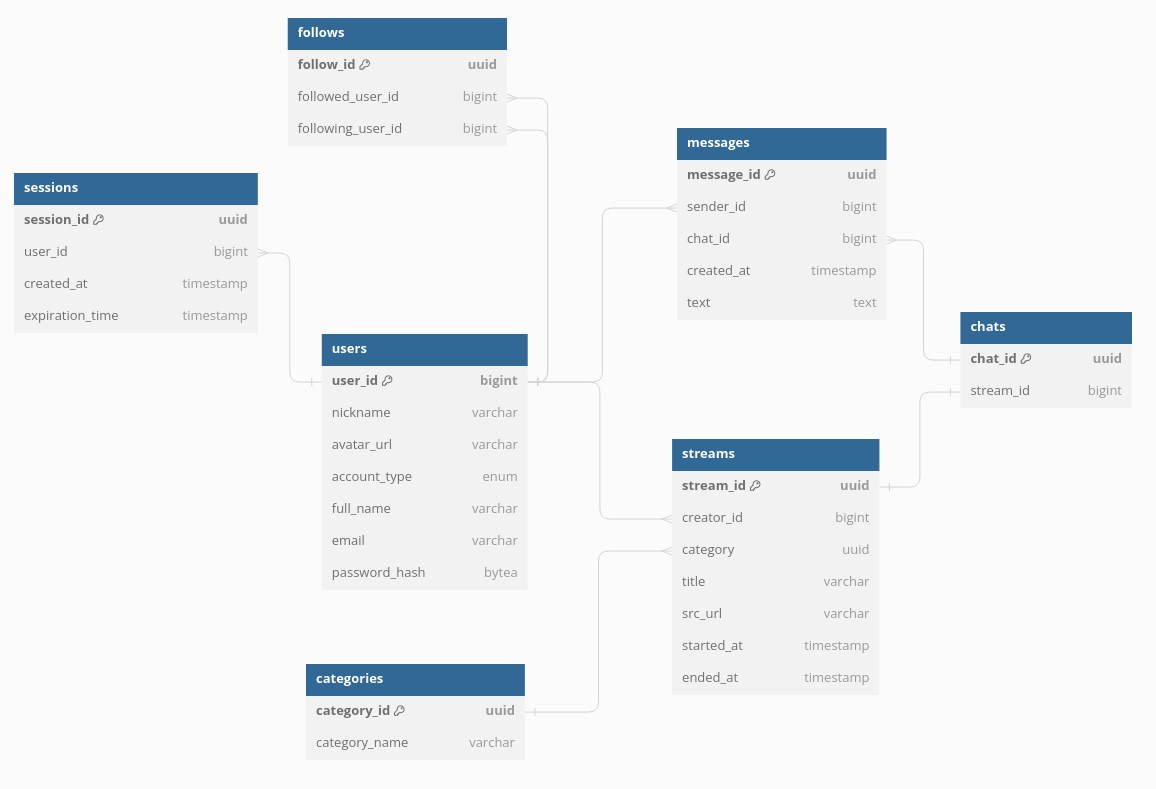
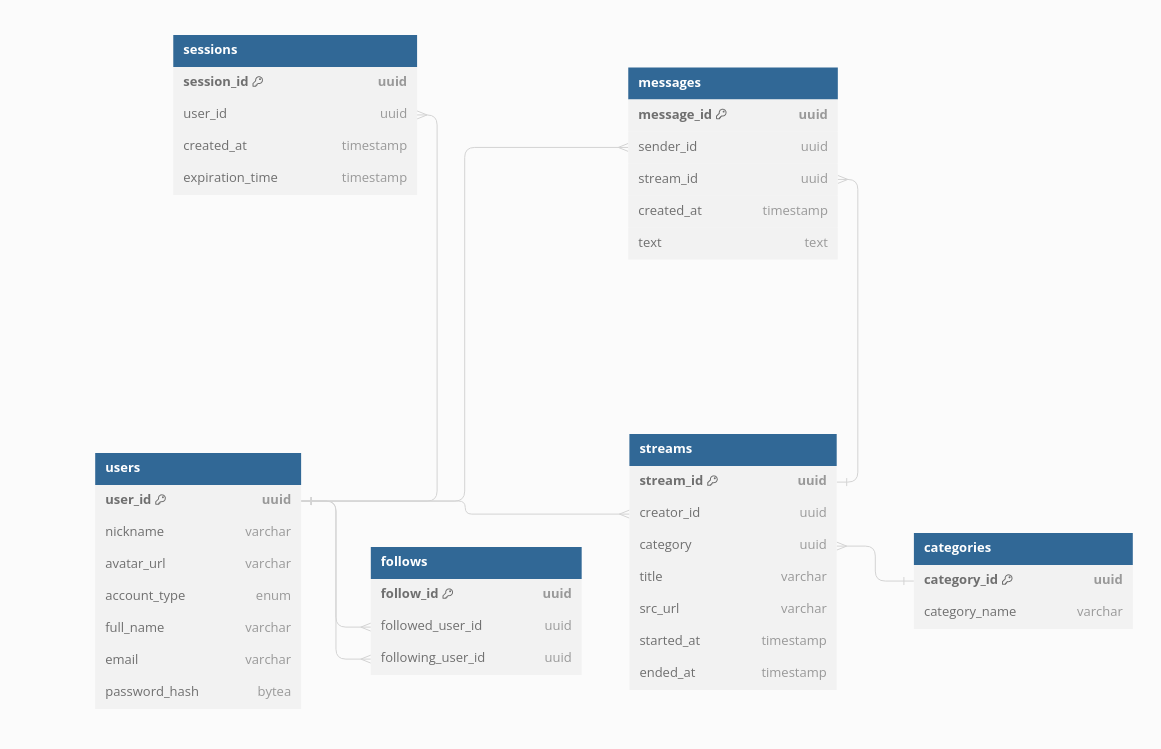
update project schema

diff --git a/README.md b/README.md
@@ -21,12 +21,13 @@
     - [3.1 Физическое расположение датацентров](#31-физическое-расположение-датацентров)
       - [Схема примерного расположения ДЦ](#схема-примерного-расположения-дц)
       - [Покрытие регионов](#покрытие-регионов)
-      - [Максимальные задержки](#максимальные-задержки)
-    - [3.2 Нагрузка на датацентры](#32-нагрузка-на-датацентры)
-    - [3.3 Разбивка](#33-разбивка)
+      - [Максимальные задержки и распределение RPS](#максимальные-задержки-и-распределение-rps)
+    - [3.3 Разбивка по типам серверов](#33-разбивка-по-типам-серверов)
   - [4. Локальная балансировка нагрузки](#4-локальная-балансировка-нагрузки)
+    - [Отакзоустойчивость](#отакзоустойчивость)
   - [5. Логическая схема БД](#5-логическая-схема-бд)
   - [6. Физическая схема БД](#6-физическая-схема-бд)
+    - [Индексы](#индексы)
   - [7. Технологии](#7-технологии)
   - [Источники](#источники)
   <!--toc:end-->
@@ -89,11 +90,11 @@
 
 На основе наблюдения за [количеством сообщений в секунду][5], можно сказать, что среднее количество примерно 600 сообщений. Тогда в день — $600 \times 60 \times 60 \times 24 \approx 52$ млн сообщений в день.
 
-|                          | частота, млн/день | частота, на одного человека |
-| :----------------------: | :---------------: | :-------------------------: |
-|    Начало трансляции     |        1.1        |              -              |
-| Отправка сообщения в чат |        52         |              -              |
-|   Открытие трянсляции    |        2.3        |              3              |
+|                          | частота, млн/день |
+| :----------------------: | :---------------: |
+|    Начало трансляции     |        1.1        |
+| Отправка сообщения в чат |        52         |
+|   Открытие трянсляции    |        2.3        |
 
 ### 2.2 Технические метрики
 
@@ -209,12 +210,12 @@ $$
 
 **Cводная таблица сетевой нагрузки:**
 
-|       Тип запроса        | Средняя нагрузка | Пиковая нагрузка |  Дневная нагрузка  |
-| :----------------------: | :--------------: | :--------------: | :----------------: |
-|   Просмотр трансляции    |   10 Тбит/сек    |   17 ТБит/сек    | 105965 ТБайт/сутки |
-|       Чтение чата        |   0.05 Гбит/с    |    0.1 Гбит/с    |  312 ГБайт/сутки   |
-|  Проведение трансляции   |    399 Гбит/с    |    557 Гбит/с    | 4 250 ТБайт/сутки  |
-| Отправка сообщений в чат |   0.002 Гбит/с   |  0.0034 Гбит/с   |  312 ГБайт/сутки   |
+|       Тип запроса        |       Средняя нагрузка        |        Пиковая нагрузка        |  Дневная нагрузка  |
+| :----------------------: | :---------------------------: | :----------------------------: | :----------------: |
+|   Просмотр трансляции    | 10 Тбит/сек(2.4 млн зрителей) |  17 ТБит/сек (4 млн зрителей)  | 105965 ТБайт/сутки |
+|       Чтение чата        |          0.05 Гбит/с          |           0.1 Гбит/с           |  312 ГБайт/сутки   |
+|  Проведение трансляции   | 399 Гбит/с(93000 трансляций)  | 557 Гбит/с (130000 трансляций) | 4 250 ТБайт/сутки  |
+| Отправка сообщений в чат |         0.002 Гбит/с          |         0.0034 Гбит/с          |  312 ГБайт/сутки   |
 
 #### RPS в разбивке по типам запросов
 
@@ -236,14 +237,17 @@ $$
 \frac{0.3 \times 31 \times 10^{6} \times 3}{86400} \approx 323 \ \text{RPS}
 $$
 
+Количество запросов на загрузку чанка рассчитаем как отношение исходящей нагрузки на просмотр трансляций к размер чанка длиной 2 секунды.
+
 Возьмем за пиковый RPS средний \* 1.7 (отношения пика зрителей к среднему количеству)
 
-| Тип запроса         | Средний RPS | Пиковый RPS |
-| :------------------ | :---------- | :---------- |
-| Открытие трансляции | 1023        | 1740        |
-| Отправка сообщения  | 600         | 1020        |
-| Поиск               | 323         | 550         |
-| Cтарт трансляции    | 15          | 26          |
+| Тип запроса                      | Средний RPS  | Пиковый RPS  |
+| :------------------------------- | :----------- | :----------- |
+| Открытие трансляции              | 1023         | 1740         |
+| Загрузка чанка трансляции(2 сек) | $1.1 * 10^6$ | $1.8 * 10^6$ |
+| Отправка сообщения               | 600          | 1020         |
+| Поиск                            | 323          | 550          |
+| Cтарт трансляции                 | 15           | 26           |
 
 ## 3. Глобальная балансировка нагрузки
 
@@ -292,7 +296,7 @@ $$
 
 ![покрытие](./assets/Coverage.png)
 
-#### Максимальные задержки
+#### Максимальные задержки и распределение RPS
 
 Составлено на основе https://wondernetwork.com/pings
 
@@ -308,75 +312,157 @@ $$
 |       Азия(Япония, Южная Корея)       |            20             |
 |               Австралия               |            45             |
 
-### 3.2 Нагрузка на датацентры
+| Расположение  | Входящаяя нагрузка, RPS | Исходящая нагрузка, RPS |
+| ------------- | ----------------------- | ----------------------- |
+| Нью-Йорк      | 110                     | 130367                  |
+| Сан-Франциско | 71                      | 85220                   |
+| Сиэтл         | 47                      | 56160                   |
+| Даллас        | 128                     | 152120                  |
+| Торонто       | 36                      | 42222                   |
+| Лондон        | 49                      | 57516                   |
+| Франкфурт     | 107                     | 125596                  |
+| Цюрих         | 86                      | 100946                  |
+| Париж         | 41                      | 48125                   |
+| Стокгольм     | 48                      | 56342                   |
+| Мадрид        | 48                      | 56342                   |
+| Токио         | 15                      | 17616                   |
+| Сеул          | 43                      | 28736                   |
+| Сан-Паулу     | 66                      | 72667                   |
+| Буэнос-Айрос  | 38                      | 42939                   |
+| Сидней        | 16                      | 17616                   |
 
-### 3.3 Разбивка
+### 3.3 Разбивка по типам серверов
 
-Т.к исходящаяя нагрзука в 25 раз больше входящей, необходимо определить в каких ДЦ будут расположены сервера, принимающие входяший видеопоток, и в каких ДЦ будут находиться сервера, раздающие видеопоток конечным зрителям.
+Т.к исходящаяя нагрзука в 25 раз больше входящей, необходимо определить какие из ДЦ будут Origin, а какие PoP.
+
+- Функция Origin - обработка видеопотока от PoP и конечных пользователей.
+- Функция PoP - прием видеопотока от пользователей и перенаправление его в Origin.
 
 ![Разбивка по типам ДЦ](assets/dc_type_distribution.png)
 
 ## 4. Локальная балансировка нагрузки
 
+Для балансировки нагрузки внутри ДЦ будем использовать L7 балансировщик, например Envoy.
+Запросы на ведение трансляции будут распределяться с помощью consistant hash от id трансляции, так можно добиться того, чтобы все чанки уходили на один сервер.
+При смене источника трансляции(например с компьютера на телефон) id трансляции останется тем же, и видеопоток будет приходить на тот же сервер.
+Остальные запросы будут балансироваться с помощью алгоритма Weighted Round Robin.
+
+### Отакзоустойчивость
+
+Для оркестрации будет использоваться Kubernetes, за отказоустойчиваость отвечает service mesh.
+Service mesh фиксирует все аспекты взаимодействия между сервисами в качестве показателей производительности.
+Если в каком-то сервисе происходит сбой, service mesh собирает данные о том, сколько времени прошло до успешной повторной попытки.
+По мере накопления данных о времени сбоя можно подготовить правила для определения оптимального времени ожидания перед повторным запуском сервиса.
+В качестве service mesh будем использовать Istio.
+
 ## 5. Логическая схема БД
 
 ![Логическая схема](./assets/db_scheme.png)
 
-- **Users**
+**Users**
 
-  - Размер: $140 \times 10^6 \times (8 + 64 + 128 + 256 + 256 + 64) \approx 101 \text{ГБ}$
-  - Чтение:
-  - Запись:
+    16 + 64 + 128 + 256 + 256 + 64 = 0.8 КБ
 
-- **Streams:** [по данным](https://twitchtracker.com/statistics/active-streamers) количество активных стримеров в день составляет от 1.1 млн до 1.4 млн. Размер данных будет рассчитывать за учитывая, что информация о трансляциях большинства пользователей храниться лишь неделю.
+**Streams**
 
-  - Размер: $1.4 \times 10^6 \times 7 \times (16 + 8 + 16 + 200 + 128 + 8 + 8) = 2.6 \ \text{ГБ}$
-  - Чтение:
-  - Запись: 16
+    16 + 16 + 16 + 128 + 128 + 8 + 8 = 0.31 КБ
 
-- **Sessions**
+**Sessions**
 
-  - Размер: будем считать, что сессия хранится действует месяц, тогда размер хранилища: $140 \times 10^6 \times (16 + 8 + 8) \approx 4.2 \ \text{ГБ}$
-  - Чтение: $31 \times 10^6 / 86400 \approx 360$
-  - Запись: -
+    16 + 16 + 8 + 8 = 0.05 КБ
 
-- **Messages**
+**Messages**
 
-  - Размер: Запись чата трансляции хранится так же неделю $600 \times 60 \times 60 \times 24 \times 7 \times (16 + 8 + 8 + 8 + 512) \approx 187 \ \text{ГБ}$
-  - Чтение: -
-  - Запись: 1020
+    16 + 16 + 16 + 8 + 512 = 0.55 КБ
 
-- **Follows**
-  - Размер: $140 \times 10^6 \times 15 \times (16 + 8 + 8) \approx 2 \ \text{ГБ}$
-  - Чтение: -
-  - Запись: -
+**Follows**
 
-| Название таблицы | размер данных, ГБ | нагрузка на чтение | нагрузка на запись |
-| ---------------- | ----------------- | ------------------ | ------------------ |
-| users            | 101               | -                  | -                  |
-| streams          | 2.6               | -                  | 26                 |
-| follows          | 2                 | -                  | -                  |
-| sessions         | 4.2               | 360                | -                  |
-| messages         | 187               | -                  | 1020               |
+    16 + 16 + 16 = 0.05 КБ
+
+**Categories**
+
+    16 + 256 = 0.27 КБ
+
+| Название таблицы | размер данных, ГБ | нагрузка на чтение | нагрузка на запись       |
+| ---------------- | ----------------- | ------------------ | ------------------------ |
+| users            | 101               | 358                | 14571 (дневная нагрузка) |
+| streams          | 2.6               | 4933               | 26                       |
+| follows          | 66                | 358                | 1157                     |
+| sessions         | 6.7               | 1076               | -                        |
+| messages         | 192               | -                  | 1020                     |
+
+Нагрузка на чтение сообщений незначительная, т.к сообщения пересылаются сразу всем
+активным зрителям трансляции, чат доступен только с того момента, как зритель присоединился к трансляции.
+
+Категории добавляются достаточно редко, поэтому нагрузка на запись для таблицы **categories** незначительная.
+
+Нагрузка запись в **follows** рассчитана на основе [данных о приросте подписчиков за последние 30 дней](https://twitchtracker.com/channels/followers-growth).
+
 
 ## 6. Физическая схема БД
 
+![Физическая схема](./assets/db_phys.png)
+
+### Индексы
+
+**Users**
+
+| Ключи индекса | Тип индекса | Размер, ГБ |
+| ------------- | ----------- | ---------- |
+| user_id       | BTree       | 0.3        |
+| nickname      | BTree       | 9.4        |
+
+**Follows**
+
+| Ключи индекса    | Тип индекса | Размер, ГБ |
+| ---------------- | ----------- | ---------- |
+| follow_id        | BTree       | 31         |
+| followed_user_id | Hash        | 15         |
+
+**Categories**
+
+| Ключи индекса | Тип индекса | Размер, ГБ |
+| ------------- | ----------- | ---------- |
+| category_id   | BTree       | 0.0002     |
+
+**Messages**
+
+| Ключи индекса | Тип индекса | Размер, ГБ |
+| ------------- | ----------- | ---------- |
+| message_id    | BTree       | 8          |
+| stream_id     | BTree       | 8          |
+
+**Streams**
+
+| Ключи индекса | Тип индекса | Размер, ГБ |
+| ------------- | ----------- | ---------- |
+| stream_id     | BTree       | 0.2        |
+| title         | BTree       | 1.1        |
+| category_id   | Hash        | 0.2        |
+
 ## 7. Технологии
 
-| Технология   | Применение                        | Обоснование                                                                                |
-| ------------ | --------------------------------- | ------------------------------------------------------------------------------------------ |
-| Go           | Основной язык бекенда             | Простота написания, параллелизм из коробки, удобные инструменты для отладки и тестирования |
-| Typescript   | Основной язык фронтенда           | Типизация, отлов ошибок на этапе компилаяции                                               |
-| React        | Фронтенд фреймворк                | Скорость написание, активное сообщество, компонентный подход                               |
-| Nginx        | L7 балансировщик, reverse proxy   | Активное сообщество, наличие модулей для поддержки RTMP и HLS                              |
-| RTMP         | Протокол стриминга                | Поддержка со стороны популярных программ для потокового вещания.                           |
-| HLS          | Протокол стриминга                | Поддержка адаптивного битрейта.                                                            |
-| Amazon S3    | Хранение статики                  | Простота использования                                                                     |
-| Redis        | Хранение сессий                   | -                                                                                          |
-| Clickhouse   | Хранение логов                    | Горизонтальная масштабируемость, отказоустойчивость                                        |
-| Apache Kafka | Брокер сообщений                  | Надежность, высокая пропускная способность                                                 |
-| Tarantool    | Хранение чата активных трансляций | Высокая производительность, совместимость с golang                                         |
-| PostgreSQL   | Долговременное хранение данных    | Масштабируемость, высокая надежность.                                                      |
+| Технология   | Применение                                | Обоснование                                                                                |
+| ------------ | ----------------------------------------- | ------------------------------------------------------------------------------------------ |
+| Go           | Основной язык бекенда                     | Простота написания, параллелизм из коробки, удобные инструменты для отладки и тестирования |
+| Typescript   | Основной язык фронтенда                   | Типизация, отлов ошибок на этапе компилаяции                                               |
+| React        | Фронтенд фреймворк                        | Скорость написание, активное сообщество, компонентный подход                               |
+| Envoy        | L7 балансировщик, Sidecar proxy           | Активное сообщество, нативный прокси в Istio                                               |
+| RTMP         | Протокол стриминга                        | Поддержка со стороны популярных программ для потокового вещания.                           |
+| HLS          | Протокол стриминга                        | Поддержка адаптивного битрейта.                                                            |
+| Amazon S3    | Хранение статики                          | Простота использования                                                                     |
+| Clickhouse   | Хранение логов                            | Горизонтальная масштабируемость, отказоустойчивость                                        |
+| Apache Kafka | Брокер сообщений                          | Надежность, высокая пропускная способность                                                 |
+| Tarantool    | Хранение сессий, чата активных трансляций | Высокая производительность, совместимость с golang                                         |
+| PostgreSQL   | Долговременное хранение данных            | Масштабируемость, высокая надежность.                                                      |
+
+## 8. Обеспечение надежности
+
+## 9. Схема проекта
+
+![схема проекта](./assets/project.png)
+
+## 10. Рассчет ресурсов
 
 ## Источники
 
@@ -388,6 +474,7 @@ $$
 6. https://help.twitch.tv/s/article/broadcasting-guidelines?language=en_US
 7. https://twitchstats.net/
 8. https://streamscharts.com/
+9. https://blog.twitch.tv/en/2022/04/26/ingesting-live-video-streams-at-global-scale/
 
 [1]: https://twitchtracker.com/statistics
 [2]: https://www.demandsage.com/twitch-users/
@@ -397,3 +484,4 @@ $$
 [6]: https://help.twitch.tv/s/article/broadcasting-guidelines?language=en_US
 [7]: https://twitchstats.net/
 [8]: https://streamscharts.com/
+[9]: https://blog.twitch.tv/en/2022/04/26/ingesting-live-video-streams-at-global-scale/
